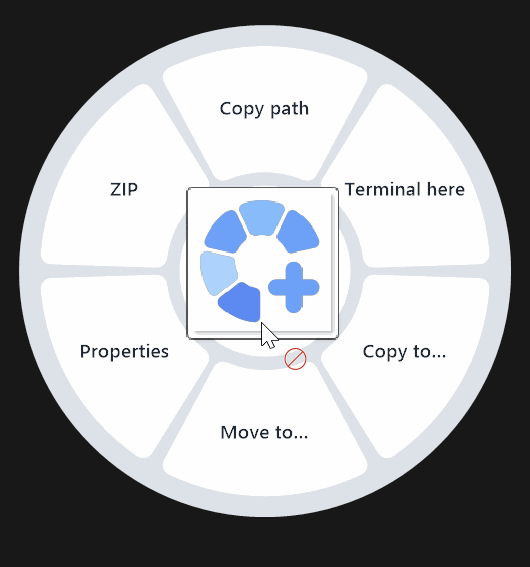
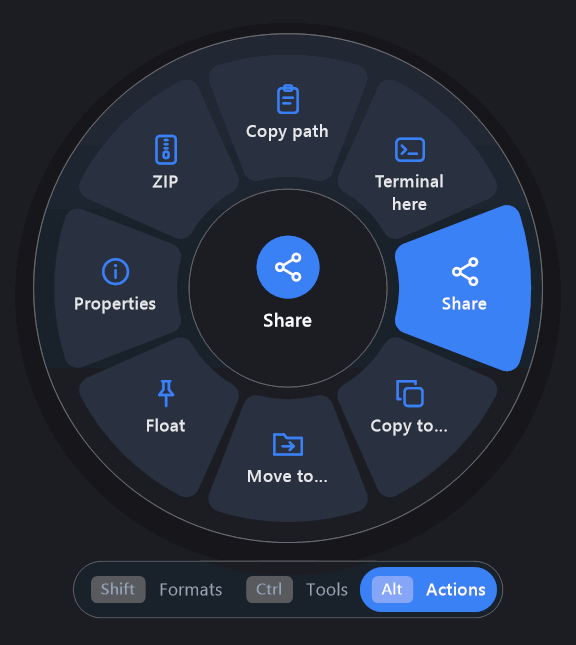
0.4.0: changelog, README, new screenshots from the design previews
Claude-Session: https://claude.ai/code/session_01Po97STRZFK2m8oax3UhGDS

diff --git a/README.md b/README.md
@@ -33,9 +33,10 @@ It is free, open source, and everything happens **on your PC**.
 - **The wheel knows your file.** It only shows what makes sense for what you're holding: image formats for photos, video formats for clips, and so on.
 - **Many files at once.** Drag a whole selection; each file gets its own copy, or they are combined when that's the point (merge PDFs, join videos, pictures into one PDF).
 - **Images:** convert, crop, remove the background, compress, resize, rotate, strip location and camera data.
-- **Video and audio:** convert, trim, compress, mute, speed up, slow down, grab a frame, make a GIF, extract the sound.
-- **PDF and documents:** PDF to pictures or text or Word, merge, split, extract pages; Word, Markdown and text to PDF with proper Arabic.
-- **Share in one move.** Drop on *Share* to open the Windows share sheet (Nearby sharing, Mail, Teams, WhatsApp…).
+- **Video and audio:** convert, trim, split, compress, mute, speed up, slow down, grab a frame, make a GIF, extract the sound.
+- **PDF and documents:** PDF to pictures, text, Word, Excel, PowerPoint or EPUB; merge, split, extract pages; Word, RTF, HTML, Markdown and text to PDF or EPUB with proper Arabic.
+- **Spreadsheets without Office:** XLSX, ODS, CSV and TSV into each other, and to a clean PDF table.
+- **Share in one move.** Drop on *Share* to open the Windows share sheet (Nearby sharing, Mail, Teams, WhatsApp…), or on *Float* to keep the files in a little card on top of everything until you drag them somewhere.
 - **Safe by design.** Your original is never touched, nothing is ever overwritten, and a cancelled or failed job leaves nothing behind.
 - **Private.** No account, no telemetry, no upload. It works without internet. ([Privacy policy](PRIVACY.md))
 - **Light and fast.** Native Win32 and GDI+, no Electron. English and Arabic, light and dark.
@@ -45,13 +46,13 @@ It is free, open source, and everything happens **on your PC**.
 <table>
   <tr>
     <td align="center"><img src="docs/media/wheel-image.png" width="260" alt="Image formats"><br><sub><b>Shift</b> · formats for a picture</sub></td>
-    <td align="center"><img src="docs/media/wheel-tools.png" width="260" alt="Image tools"><br><sub><b>Ctrl</b> · tools</sub></td>
+    <td align="center"><img src="docs/media/wheel-tools.png" width="260" alt="Image tools"><br><sub><b>Ctrl</b> · tools (dark)</sub></td>
     <td align="center"><img src="docs/media/wheel-actions.png" width="260" alt="Actions"><br><sub><b>Alt</b> · actions for any file</sub></td>
   </tr>
   <tr>
-    <td align="center"><img src="docs/media/wheel-video.png" width="260" alt="Video formats"><br><sub>A video</sub></td>
-    <td align="center"><img src="docs/media/wheel-audio.png" width="260" alt="Audio formats"><br><sub>An audio file</sub></td>
-    <td align="center"><img src="assets/shiftdrop-256.png" width="150" alt="ShiftDrop icon"><br><sub>Lives quietly next to the clock</sub></td>
+    <td align="center"><img src="docs/media/wheel-video.png" width="260" alt="Video formats"><br><sub>A video, hovering WMV</sub></td>
+    <td align="center"><img src="docs/media/wheel-arabic.png" width="260" alt="PDF tools in Arabic"><br><sub>PDF tools, in Arabic</sub></td>
+    <td align="center"><img src="docs/media/float.png" width="260" alt="Float card"><br><sub><b>Float</b> · files on top, ready to drag</sub></td>
   </tr>
 </table>
 
@@ -86,17 +87,18 @@ Once the wheel is open you can let go of the keys. The keys themselves can be ch
 
 | Files | Convert to | Tools |
 | --- | --- | --- |
-| **Images** — JPG, PNG, WebP, HEIC, AVIF, TIFF, BMP, ICO, SVG | JPG, PNG, WebP, AVIF, TIFF, BMP, ICO, PDF | Crop, remove background, compress, half size, rotate, black & white, remove metadata, many pictures → one PDF |
+| **Images** — JPG, PNG, WebP, HEIC, AVIF, TIFF, BMP, ICO, SVG | JPG, PNG, WebP, AVIF, TIFF, BMP, ICO, PDF | Crop, remove background, compress, half size, rotate, black & white, remove metadata, many pictures → one PDF, pictures → slides (PPTX) |
 | **GIF** | MP4, MOV, WebM, PNG, JPG, WebP | |
-| **Video** — MP4, MOV, MKV, WebM, AVI, WMV… | MP4, MOV, MKV, WebM, AVI, WMV, GIF, MP3, M4A | Compress, trim, remove sound, speed ×2, slow ×½, rotate, snapshot, remove metadata, join |
-| **Audio** — MP3, M4A, WAV, FLAC, OGG, Opus, AIFF, WMA | any of these | Compress, trim, normalize, mono, remove metadata |
-| **PDF** | JPG, PNG (300 DPI), TXT, DOCX, MD, HTML | Merge, split pages, extract pages, rotate |
-| **Documents** — DOCX, MD, TXT | PDF, DOCX, MD, HTML, TXT | |
+| **Video** — MP4, MOV, MKV, WebM, AVI, WMV… | MP4, MOV, MKV, WebM, AVI, WMV, GIF, MP3, M4A | Compress, trim, split, remove sound, speed ×2, slow ×½, rotate, snapshot, remove metadata, join |
+| **Audio** — MP3, M4A, WAV, FLAC, OGG, Opus, AIFF, WMA | any of these | Compress, trim, split, normalize, mono, remove metadata |
+| **PDF** | JPG, PNG (300 DPI), TXT, DOCX, XLSX, PPTX, EPUB, MD, HTML | Merge, split pages, extract pages, rotate |
+| **Documents** — DOCX, RTF, HTML, EPUB, MD, TXT | PDF, DOCX, EPUB, MD, HTML, TXT | |
+| **Spreadsheets** — XLSX, ODS, CSV, TSV | XLSX, ODS, CSV, TSV, PDF, HTML | |
 | **Subtitles** — SRT, VTT | SRT, VTT, TXT | Shift timing |
 | **Archives** — ZIP, TAR, TAR.GZ, GZ (7z and RAR with 7-Zip installed) | ZIP, TAR, TAR.GZ | Extract |
-| **Anything** (files and folders) | | Copy path, terminal here, share, copy to, move to, properties, ZIP |
+| **Anything** (files and folders) | | Copy path, terminal here, share, copy to, move to, float, properties, ZIP |
 
-Documents become PDF through Windows' own *Microsoft Print to PDF*, so text stays real, selectable text (Arabic included). Microsoft Office is not needed.
+Documents and spreadsheets become PDF through Windows' own *Microsoft Print to PDF*, so text stays real, selectable text (Arabic included). Microsoft Office is not needed. PDF → Excel rebuilds tables from where the text sits on the page: great for invoices and statements made by programs; scanned pages have no text to read.
 
 ## Settings
 
@@ -223,9 +225,10 @@ Licence: [MIT](LICENSE).
 - **العجلة تعرف ملفك:** تعرض فقط ما يناسبه؛ صيغ صور للصور، وصيغ فيديو للفيديو، وهكذا.
 - **عدة ملفات مرة واحدة:** كل ملف يأخذ نسخته، أو تُدمج معًا حين يكون هذا هو المطلوب (دمج PDF، دمج فيديو، عدة صور في PDF واحد).
 - **الصور:** تحويل، **قص الصورة**، **إزالة الخلفية**، ضغط، تصغير، تدوير، وحذف بيانات الموقع والكاميرا.
-- **الفيديو والصوت:** تحويل، قص، ضغط، حذف الصوت، تسريع، إبطاء، لقطة من الفيديو، تحويل إلى GIF، واستخراج الصوت.
-- **PDF والمستندات:** من PDF إلى صور أو نص أو Word، دمج، فصل، استخراج صفحات؛ ومن Word وMarkdown والنص إلى PDF بعربية سليمة.
-- **مشاركة بحركة واحدة:** أفلت الملف على «مشاركة» لتفتح نافذة المشاركة في Windows (المشاركة القريبة، البريد، Teams، واتساب...).
+- **الفيديو والصوت:** تحويل، قص، تقسيم لأجزاء، ضغط، حذف الصوت، تسريع، إبطاء، لقطة من الفيديو، تحويل إلى GIF، واستخراج الصوت.
+- **PDF والمستندات:** من PDF إلى صور أو نص أو Word أو Excel أو PowerPoint أو EPUB، مع الدمج والفصل واستخراج الصفحات؛ ومن Word وRTF وHTML وMarkdown والنص إلى PDF أو EPUB بعربية سليمة.
+- **جداول بدون Office:** بين XLSX وODS وCSV وTSV، وإلى PDF بجدول مرتب.
+- **مشاركة بحركة واحدة:** أفلت الملف على «مشاركة» لتفتح نافذة المشاركة في Windows (المشاركة القريبة، البريد، Teams، واتساب...)، أو على «إبقاء عائمًا» ليبقى الملف في بطاقة صغيرة فوق كل النوافذ حتى تسحبه لأي مكان.
 - **آمن:** الملف الأصلي لا يُمس، ولا يُكتب فوق أي ملف، والعملية الملغاة أو الفاشلة لا تترك أي بقايا.
 - **خصوصية كاملة:** بلا حساب، وبلا تتبّع، وبلا رفع. يعمل بدون إنترنت.
 - **خفيف وسريع:** مكتوب بواجهات Windows الأصلية، بالعربية والإنجليزية، وبمظهر فاتح وداكن.
@@ -259,17 +262,18 @@ Licence: [MIT](LICENSE).
 
 | الملفات | التحويل إلى | الأدوات |
 | --- | --- | --- |
-| **صور**: JPG وPNG وWebP وHEIC وAVIF وTIFF وBMP وICO وSVG | JPG، PNG، WebP، AVIF، TIFF، BMP، ICO، PDF | قص، إزالة الخلفية، ضغط، نصف الحجم، تدوير، أبيض وأسود، حذف البيانات، عدة صور في PDF واحد |
+| **صور**: JPG وPNG وWebP وHEIC وAVIF وTIFF وBMP وICO وSVG | JPG، PNG، WebP، AVIF، TIFF، BMP، ICO، PDF | قص، إزالة الخلفية، ضغط، نصف الحجم، تدوير، أبيض وأسود، حذف البيانات، عدة صور في PDF واحد، عرض شرائح PPTX |
 | **GIF** | MP4، MOV، WebM، PNG، JPG، WebP | |
-| **فيديو**: MP4 وMOV وMKV وWebM وAVI وWMV... | MP4، MOV، MKV، WebM، AVI، WMV، GIF، MP3، M4A | ضغط، قص، حذف الصوت، سرعة ×2، بطء ×½، تدوير، لقطة، حذف البيانات، دمج |
-| **صوت**: MP3 وM4A وWAV وFLAC وOGG وOpus وAIFF وWMA | أي صيغة منها | ضغط، قص، توحيد الصوت، أحادي، حذف البيانات |
-| **PDF** | JPG، PNG بدقة 300، TXT، DOCX، MD، HTML | دمج، فصل الصفحات، استخراج صفحات، تدوير |
-| **مستندات**: DOCX وMD وTXT | PDF، DOCX، MD، HTML، TXT | |
+| **فيديو**: MP4 وMOV وMKV وWebM وAVI وWMV... | MP4، MOV، MKV، WebM، AVI، WMV، GIF، MP3، M4A | ضغط، قص، تقسيم، حذف الصوت، سرعة ×2، بطء ×½، تدوير، لقطة، حذف البيانات، دمج |
+| **صوت**: MP3 وM4A وWAV وFLAC وOGG وOpus وAIFF وWMA | أي صيغة منها | ضغط، قص، تقسيم، توحيد الصوت، أحادي، حذف البيانات |
+| **PDF** | JPG، PNG بدقة 300، TXT، DOCX، XLSX، PPTX، EPUB، MD، HTML | دمج، فصل الصفحات، استخراج صفحات، تدوير |
+| **مستندات**: DOCX وRTF وHTML وEPUB وMD وTXT | PDF، DOCX، EPUB، MD، HTML، TXT | |
+| **جداول**: XLSX وODS وCSV وTSV | XLSX، ODS، CSV، TSV، PDF، HTML | |
 | **ترجمات**: SRT وVTT | SRT، VTT، TXT | إزاحة التوقيت |
 | **أرشيف**: ZIP وTAR وTAR.GZ وGZ (و7z وRAR مع 7-Zip) | ZIP، TAR، TAR.GZ | استخراج |
-| **أي ملف أو مجلد** | | نسخ المسار، الطرفية هنا، مشاركة، نسخ إلى، نقل إلى، الخصائص، ZIP |
+| **أي ملف أو مجلد** | | نسخ المسار، الطرفية هنا، مشاركة، نسخ إلى، نقل إلى، إبقاء عائمًا، الخصائص، ZIP |
 
-تحويل المستندات إلى PDF يتم عبر طابعة Microsoft Print to PDF المدمجة في Windows، فيبقى النص العربي صحيحًا وقابلًا للتحديد. لا يحتاج Office.
+تحويل المستندات والجداول إلى PDF يتم عبر طابعة Microsoft Print to PDF المدمجة في Windows، فيبقى النص العربي صحيحًا وقابلًا للتحديد. لا يحتاج Office. وتحويل PDF إلى Excel يعيد بناء الجداول من أماكن النص في الصفحة: ممتاز للفواتير والكشوفات، أما الصفحات الممسوحة ضوئيًا فلا نص فيها ليُقرأ.
 
 ## الإعدادات
 

diff --git a/CHANGELOG.md b/CHANGELOG.md
@@ -1,5 +1,20 @@
 # Changelog
 
+## 0.4.0
+
+- **A new look for the wheel.** Icons for every tool and action, a colour for every kind of file, a glassy plate, smooth opening and hover animations, a preview of the dragged file in the middle, and a strip under the wheel showing the three wheels and their keys. Light and dark.
+- **Spreadsheets without Office:** XLSX, ODS, CSV and TSV convert into each other, and to PDF (a proper table, Arabic included) and HTML. Old Arabic CSV files open correctly.
+- **PDF to Excel:** rebuilds the tables of invoices, statements and reports into an XLSX sheet.
+- **PDF to PowerPoint:** one sharp slide per page. **Pictures to slides:** a PPTX from the images you drop.
+- **EPUB:** documents and PDFs to e-books, and e-books back to Word, PDF, Markdown or text.
+- **More documents in:** RTF and HTML files now convert like Word, Markdown and text.
+- **Tables are kept** when Word, Markdown, HTML and spreadsheets move between formats (they used to become plain lines).
+- **Split** videos and audio into parts of any length (no re-encoding).
+- **Float:** a new action that keeps files in a small card on top of everything; drag the card into a mail, a chat or a folder later.
+- Progress cards show the operation's colour and icon.
+
+**تصميم جديد للعجلة، جداول Excel بدون Office، من PDF إلى Excel وPowerPoint، كتب EPUB، تقسيم الفيديو والصوت، وإجراء «إبقاء عائمًا».**
+
 ## 0.3.0
 
 - **Crop pictures.** A small editor opens on the picture: drag the frame or its corners, pick a ratio (Free, 1:1, 4:3, 3:2, 16:9, 9:16), press Enter.
